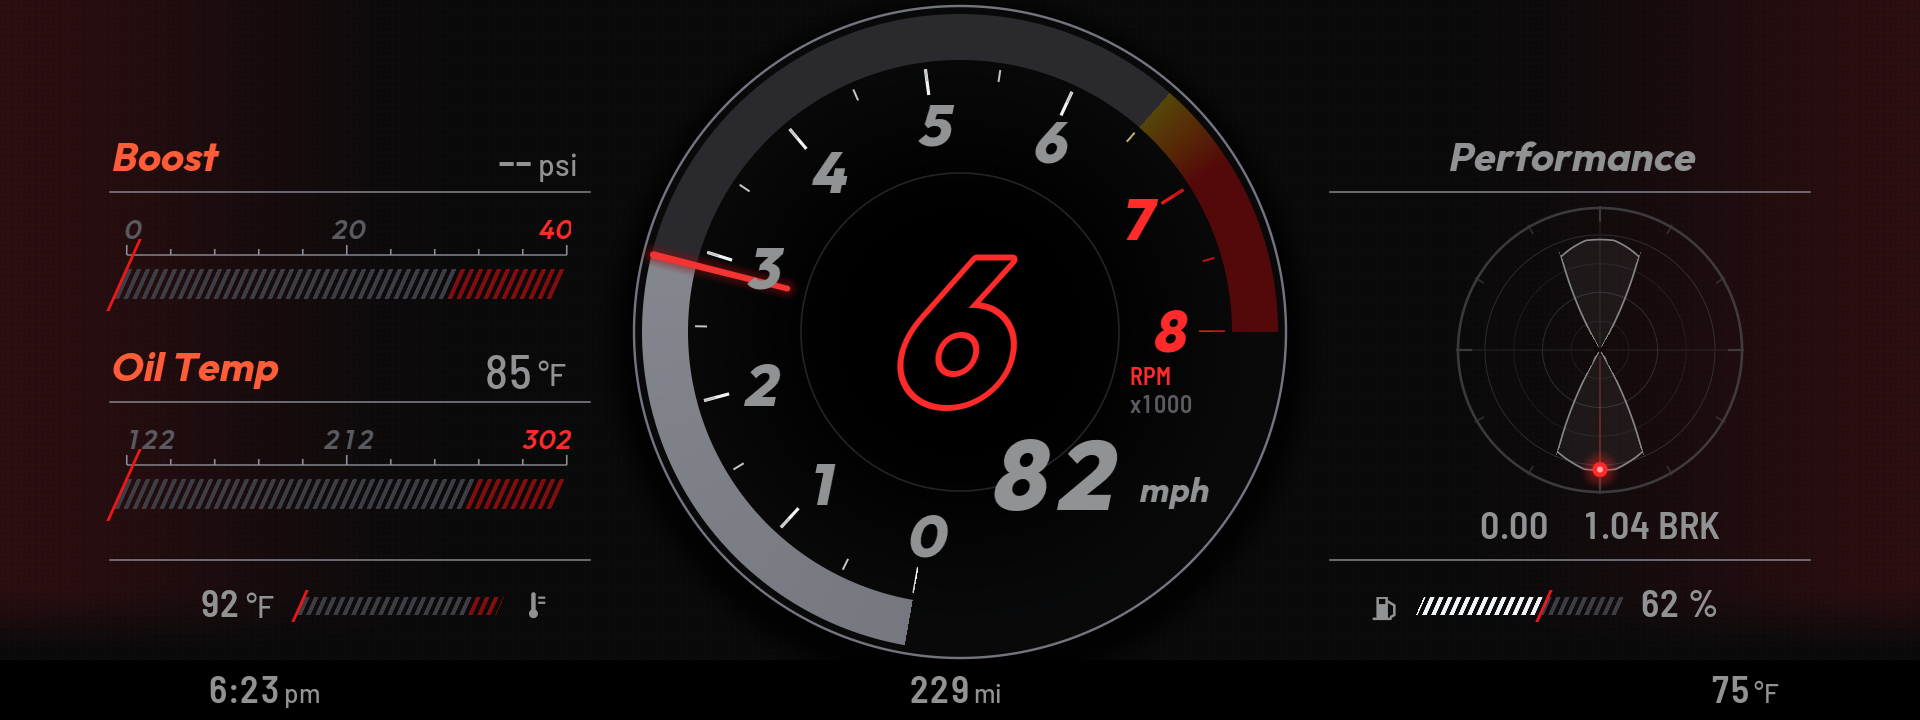
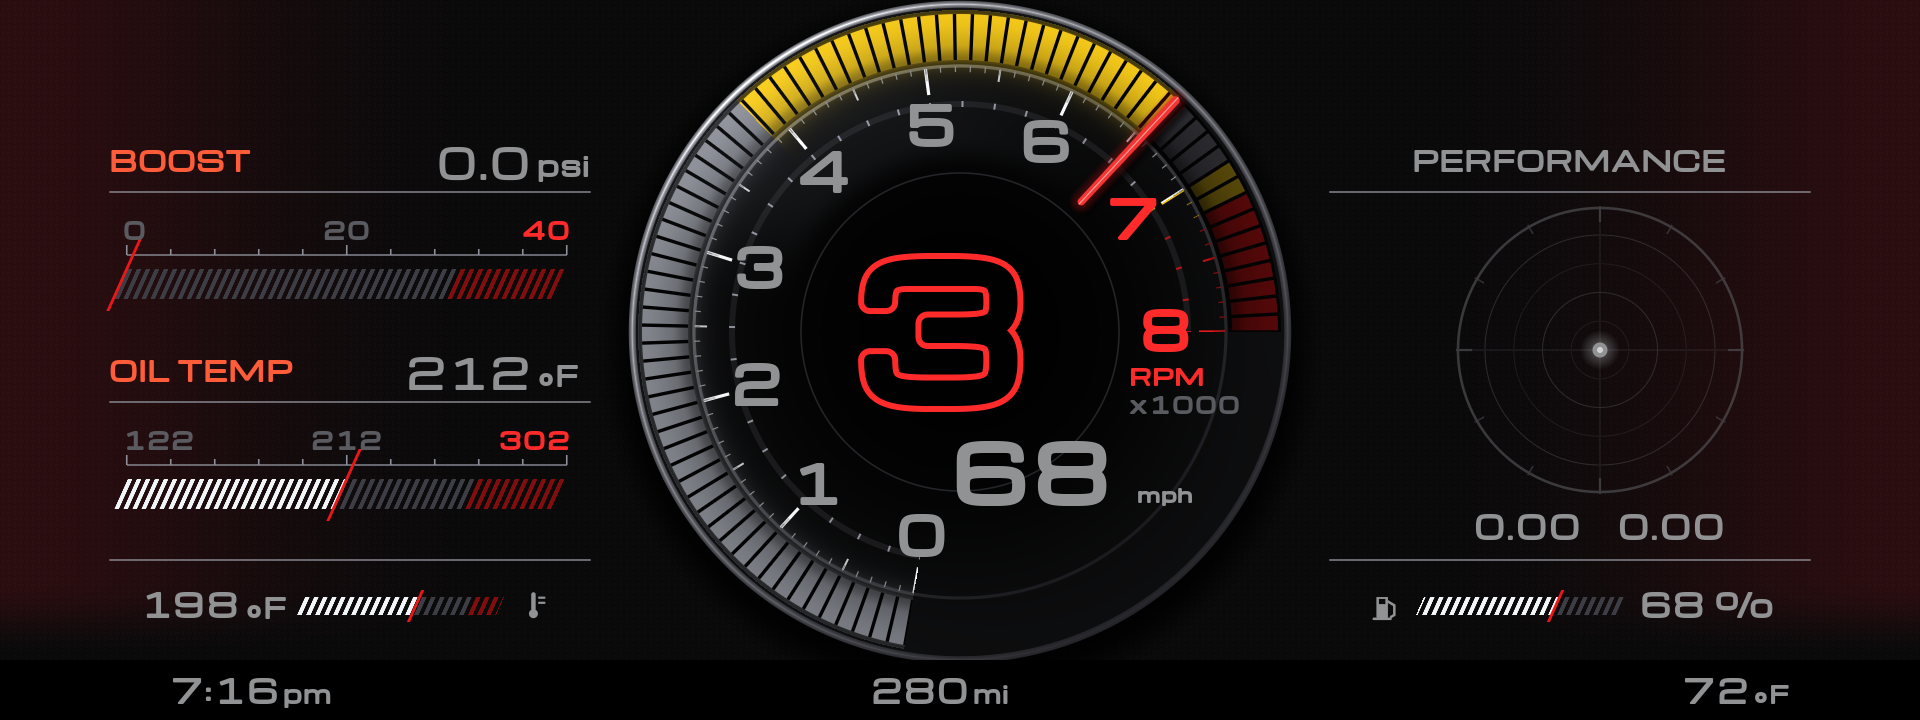
Apex: Sweep's type, lit segments in layered rings, warm-up red zone (0.21.0)
- Type (Apex): Wide (Sweep's Michroma, fonts sw_*, the default) or Italic.
  Layouts may carry "fontSets" (hud.js _fontSet), with a baseline shift.
- Tach finish (Apex): Lit segments in layered rings (default), Flat,
  Machined, Lit segments, Layered rings (cdash u_tachStyle, no rebuild).
- Red zone (Apex): Warm-up (default), Sweep's logic: red from 4000 rpm on
  cold oil rising to the Redline setting by 160 F, a yellow zone under it,
  the yellow wave over the last 1200 rpm, the lit band flashing red at
  5 Hz from the shift point. Fixed keeps 6500 / 7000.

Claude-Session: https://claude.ai/code/session_014K4Tyd9Jh77Ds9SVD6eFP6

diff --git a/shared/hud.js b/shared/hud.js
@@ -405,7 +405,7 @@ const CIRCUIT_COLORS = {
     blue: { band: [0.05, 0.33, 0.78], ink: [255, 255, 255, 255] },
 };
 const LOOK_KEYS = ['backdrops', 'apexBackdrop', 'aeroBackdrop', 'tachStyle'];   // only a dash's uniforms change (_dashLook): no rebuild
-const LIVE_KEYS = ['tachResponse', 'warnOil', 'warnCoolant', 'warnBoost', 'warnIntake', 'warnOilP', 'badge', 'badgeBMW', 'gFlipLat', 'gFlipLong', 'gRange', 'gTrail'];
+const LIVE_KEYS = ['tachResponse', 'apexZones', 'warnOil', 'warnCoolant', 'warnBoost', 'warnIntake', 'warnOilP', 'badge', 'badgeBMW', 'gFlipLat', 'gFlipLong', 'gRange', 'gTrail'];
 // g (after cauliflowermossgrape's G-Force, MIT, idea only): a sample over G_BAD is a bad reading, not a corner;
 // the rest are averaged over G_AVG_MS so kerbs and potholes don't throw the dot about
 const G_BAD = 3;
@@ -3711,11 +3711,31 @@ class HudApp {
                 const v = this._tyre('p', k);
                 return isNum(v) ? (Math.round(v * 14.5038) < low ? 2 : 1) : 0;
             }) : [0, 0, 0, 0];
-            const sh = this._shiftNow(now);
-            const key = [rv].concat(bv, ts, sh).join('|');
+            let sh = this._shiftNow(now);
+            // "Red zone (Apex)" on Warm-up (as Sweep's, layout "coldLimit" [cold oil °C, warm oil °C, cold red from rpm],
+            // "yellowLines", "waveBelow"): the red zone starts low on a cold engine and rises to the Redline setting as the
+            // oil warms, a yellow zone just under it; over the last "waveBelow" rpm before it the lit band turns yellow from
+            // the red zone back towards 0, and from the shift point the lit band flashes red about 5 times a second
+            const top = T[6] * 1000;
+            let zone = [(w.zones || [6500, 7000])[0] / top, (w.zones || [6500, 7000])[1] / top], wave = 1, dyn = 0;
+            if (this.setting('apexZones') !== 'fixed' && w.coldLimit) {
+                const redline = this.setting('redline'), oil = this._raw('oil'), C = w.coldLimit;
+                let limit = redline;
+                if (isNum(oil)) limit = Math.round((C[2] + (redline - C[2]) * Math.min(1, Math.max(0, (oil - C[0]) / (C[1] - C[0])))) / 50) * 50;
+                const yellow = (w.yellowLines || 2) * 100, waveAt = limit - (w.waveBelow || 1200), revs = rv * top;
+                zone = [(limit - yellow) / top, limit / top];
+                wave = revs <= waveAt ? 1 : Math.max(0, limit * (1 - (revs - waveAt) / (limit - waveAt)) / top);
+                wave = Math.round(wave * 400) / 400;
+                const shiftAt = limit - (isNum(this.setting('shiftBefore')) ? this.setting('shiftBefore') : 0);
+                sh = [0, this.setting('shiftLight') !== false && isNum(rpm) && rpm >= shiftAt && Math.floor(now / 100) % 2 === 0 ? 1 : 0];
+                dyn = 1;
+            }
+            const key = [rv].concat(bv, ts, sh, zone, wave).join('|');
             if (!force && key === x.last) return;
             x.last = key;
             x.c.uniform(x.ref, 'u_shift', sh);
+            x.c.uniform(x.ref, 'u_zone', zone);
+            x.c.uniform(x.ref, 'u_wave', [wave, dyn]);
             x.c.uniform(x.ref, 'u_tyre', ts);
             x.c.uniform(x.ref, 'u_tachA', [T[4], T[5], T[6], rv]);
             const bu = [];

diff --git a/shared/shaders.js b/shared/shaders.js
@@ -2599,6 +2599,8 @@ uniform vec2 u_mapEdge;    // x: how wide its edge fades into the dial, px inwar
 uniform vec4 u_glow;       // a soft glow fading outward from the gear's ring (0.5 of the radius): r, g, b, strength (0 = none)
 uniform float u_plain;     // 1: no backdrop (carbon, weave, side glow), plain black (the "Backgrounds" setting off)
 uniform vec2 u_shift;      // the shift light: x the count towards the shift point 0..1, y 1 while it flashes on (hud.js _shiftNow)
+uniform vec2 u_wave;       // the warm-up zones (y 1, "Red zone" on Warm-up, as Sweep's): lit band from x (0..1) up to the yellow zone
+                           // is yellow; the zones are then yellow then red, and the shift flash turns only the lit band red
 uniform float u_tachStyle; // the rev counter's finish ("tachStyle"): 0 flat, 1 machined (chrome bezel, bowl face, bevelled band, fine
                            // marks, needle shadow), 2 lit segments (the band in segments that glow, a glass sheen), 3 layered rings
                            // (the band sunk in a channel between chrome rings, a notched inner ring, fine marks), 4 lit segments in
@@ -2712,10 +2714,17 @@ void main() {
         bool inZone = f >= u_zone.x;
         vec3 off = inZone ? z * 0.35 : TRACK;
         vec3 lit = inZone ? z : mix(vec3(0.46, 0.47, 0.5), vec3(0.62, 0.63, 0.66), f);
-        vec3 bc = f <= u_tachA.w ? lit : off;
-        // the shift light: the band reddens over the count-in, then the whole band flashes bright red
+        bool dyn = u_wave.y > 0.5, isLit = f <= u_tachA.w;
+        if (dyn) {   // Sweep's: yellow zone then red, the lit band yellow from the wave up
+            bool hot = f >= u_zone.y;
+            off = hot ? RED * 0.35 : inZone ? AMBER * 0.35 : TRACK;
+            lit = hot ? RED : (f >= min(u_zone.x, u_wave.x)) ? AMBER : lit;
+        }
+        vec3 bc = isLit ? lit : off;
+        // the shift light: the band reddens over the count-in, then the whole band flashes bright red (warm-up zones: only
+        // the lit band flashes)
         bc = mix(bc, vec3(0.75, 0.08, 0.07), u_shift.x * 0.45 * step(u_shift.y, 0.5));
-        bc = mix(bc, vec3(1.0, 0.13, 0.1), u_shift.y);
+        bc = mix(bc, vec3(1.0, 0.13, 0.1), u_shift.y * (dyn && !isLit ? 0.0 : 1.0));
         if (fLay) c = put(c, vec3(0.012), cov(-min(r - (R - B - 4.0), R + 3.0 - r)) * on);   // the groove
         if (fSeg) {
             // lit segments: the band cut into blocks (ten per thousand), the lit ones glowing outward and inward
@@ -2743,7 +2752,7 @@ void main() {
         float per = u_tachA.y / u_tachA.z;
         float m1 = abs(radians(mod(rel + per * 0.5, per) - per * 0.5)) * r;
         float m2 = abs(radians(mod(rel + per * 0.25, per * 0.5) - per * 0.25)) * r;
-        vec3 mc = inZone ? zoneCol(f) : WHITE;
+        vec3 mc = inZone ? (u_wave.y > 0.5 ? (f >= u_zone.y ? RED : AMBER) : zoneCol(f)) : WHITE;
         c = put(c, mc, cov(m1 - 1.6) * cov(abs(r - (R - B - 20.0)) - 13.0) * on);
         c = put(c, mc * 0.8, cov(m2 - 1.0) * cov(abs(r - (R - B - 13.0)) - 6.0) * on);
         if (fFine) {   // fine marks every 100 rpm

diff --git a/apps/cluster_themes/main.js b/apps/cluster_themes/main.js
@@ -66,11 +66,11 @@ mgu.run({
             tabs: ['look', 'readouts', 'badge', 'map', 'alerts', 'gmeter', 'settings'],
             // the Settings tab lists these only while Apex is on the cluster (shared/page.js); not listed: every theme
             settingThemes: {
-                tempUnits: ['apex'], pressureUnits: ['apex'], shiftLight: ['apex'], backdrops: ['apex'], apexBackdrop: ['apex'], apexFont: ['apex'], tachStyle: ['apex'], tachResponse: ['apex'],
+                tempUnits: ['apex'], pressureUnits: ['apex'], shiftLight: ['apex'], backdrops: ['apex'], apexBackdrop: ['apex'], apexFont: ['apex'], tachStyle: ['apex'], apexZones: ['apex'], tachResponse: ['apex'],
                 gearStyle: ['apex'], gearSource: ['apex'], tachSpeed: ['apex'], readingsCheck: ['apex'], dialGlow: ['apex'], leftStyle: ['apex'],
                 leftTop: ['apex'], leftBottom: ['apex'], gaugeFill: ['apex'], rightPanel: ['apex'],
             },
-            settings: ['units', 'tempUnits', 'pressureUnits', 'clock', 'timeZone', 'tankLitres', 'redline', 'shiftBefore', 'coldGuard', 'showBoost', 'gearGap', 'sweepColor', 'revScale', 'sweepCenter', 'intakeBar', 'showEthanol', 'shiftFlash', 'shiftLight', 'nightDim', 'backdrops', 'apexBackdrop', 'apexFont', 'tachStyle', 'tachResponse', 'gearStyle', 'gearSource', 'tachSpeed', 'readingsCheck', 'dialGlow', 'leftStyle', 'leftTop', 'leftBottom', 'gaugeFill', 'rightPanel', 'cameraNotch', 'holiday', 'demo'],
+            settings: ['units', 'tempUnits', 'pressureUnits', 'clock', 'timeZone', 'tankLitres', 'redline', 'shiftBefore', 'coldGuard', 'showBoost', 'gearGap', 'sweepColor', 'revScale', 'sweepCenter', 'intakeBar', 'showEthanol', 'shiftFlash', 'shiftLight', 'nightDim', 'backdrops', 'apexBackdrop', 'apexFont', 'tachStyle', 'apexZones', 'tachResponse', 'gearStyle', 'gearSource', 'tachSpeed', 'readingsCheck', 'dialGlow', 'leftStyle', 'leftTop', 'leftBottom', 'gaugeFill', 'rightPanel', 'cameraNotch', 'holiday', 'demo'],
             // the drive mode check's candidates this app's app.json listens to (issue #8; shared/hud.js modeDiagLines)
             modeCheck: ['HMI', 'MDrive', 'Engine', 'Sport2'],
         }).start();

diff --git a/tools/gen_apex.py b/tools/gen_apex.py
@@ -32,7 +32,9 @@ OWN_IDS = ('gear', 'gear_s', 'gear_m', 'gear_ms', 'speed', 'speed_m', 'gear_c', 
                                                         # small picture's changed rect, not a rect of a big shared sheet
 MAP_FEATHER = 80              # the window's edge fades into the dial over this many px (inward), under the numbers
 MAP_R = 262                   # the map window's radius, to the tick marks (Waze draws its map in this square: hud.js _mapHost)
-ZONES = [6500, 7000]          # amber from 6500 rpm, red from 7000
+ZONES = [6500, 7000]          # amber from 6500 rpm, red from 7000 ("Red zone (Apex)" on Fixed)
+# "Red zone (Apex)" on Warm-up, as Sweep's: red from 4000 rpm below 120°F oil, rising to the Redline setting by 160°F
+COLD_LIMIT = [48.89, 71.11, 4000]
 # "Leave room for the driver camera" (cameraNotch; visible.CAMERA 760..1160 x 0..110): the tach smaller and lower, clear
 # of the camera at the top and above the bottom strip; everything in it moves with it (a second set, toggled)
 CAM = 'cameraNotch'
@@ -256,6 +258,7 @@ def build():
         mr = int(round(MAP_R * sc))
         widgets.append({'id': 'dash_c' if cam else 'dash', 'type': 'cdash', 'class': 'content', 'z': 1, 'x': 0, 'y': 0, 'w': W, 'h': H,
                         'tach': [cx, cy, r, int(round(BAND * sc)), START, SWEEP, THOUSANDS], 'zones': ZONES,
+                        'coldLimit': COLD_LIMIT, 'yellowLines': 2, 'waveBelow': 1200,
                         'panels': [640, 1280, 120, 660], 'bars': bars, 'lines': lines, 'glow': GLOW, 'car': CAR,
                         # the Waze map (Map tab): a round window in the dial, hosted there (hud.js _mapHost)
                         'hole': [cx - mr, cy - mr, 2 * mr, 2 * mr], 'holeWhen': 'mapUp', 'holeInset': 0,

diff --git a/apps/cluster_themes/README.md b/apps/cluster_themes/README.md
@@ -65,7 +65,9 @@ Calm and premium. One ribbon of light runs along under the top edge of the clust
 
 A needle dash in a mid-engine supercar style, imported from jsbaughman/apps (Cluster Themes 0.25.8).
 
-- **Middle:** a round rev counter, 0 to 8, its band lit white up to the revs over amber (from 6500 rpm) and red (from 7000 rpm) zones, with a red needle. The gear sits in the middle (outlined or solid, **Gear (Apex)**), the speed in the open lower right quarter (**Speed in the tach (Apex)**). With **Shift light (Apex)** on, the tach flashes red at the shift point.
+- **Middle:** a round rev counter, 0 to 8, with a red needle. **Tach finish (Apex):** Lit segments in layered rings (the default: the band in glowing blocks sunk in a groove between chrome rings, a notched inner ring, fine marks every 100 rpm, a needle shadow and a glass sheen), Flat, Machined, Lit segments or Layered rings.
+- **Red zone (Apex):** Warm-up (the default), as Sweep's: below 120°F oil the red zone starts at 4000 rpm and rises to your Redline setting by 160°F, with a yellow zone in the 200 rpm under it. Over the last 1200 rpm before the red zone the lit band turns yellow from the red zone back toward 0, and from your shift point the lit band flashes red about 5 times a second (**Shift light (Apex)** off stops the flash). Fixed keeps amber from 6500 and red from 7000.
+- **Type (Apex):** Wide, Sweep's Michroma (the default), or Italic, Apex's own. The gear sits in the middle (outlined or solid, **Gear (Apex)**), the speed in the open lower right quarter (**Speed in the tach (Apex)**). With **Shift light (Apex)** on, the tach flashes red at the shift point.
 - **Left:** two readouts, boost and oil temperature by default (**Left gauge, top / bottom (Apex)**: boost, oil temp, intake temp, oil pressure or water temp), as hatched gauges with a scale or as thin bars (**Left side (Apex)**, **Gauge fill (Apex)**). Oil pressure is read from the engine unit and is not yet checked on an S58.
 - **Right:** a G-meter, the tire pressures and temperatures round a car seen from above, or horsepower and torque (**Right side (Apex)**).
 - **Bottom:** coolant and fuel, then the theme's own clock, range and outside temperature in the strip. BMW's gear and drive programme area (x 1214 to 1525) is left uncovered, as in every theme here.

diff --git a/CHANGELOG.md b/CHANGELOG.md
@@ -4,6 +4,7 @@ Newest first. Dates are when the build was pushed.
 
 ## Nov 24 2026
 
+- **P3 Clusters 0.21.0 (Apex):** three new Apex settings. **Type:** Wide, Sweep's Michroma (the new default), or Italic, Apex's own. **Tach finish:** Lit segments in layered rings (the new default: glowing blocks sunk in a groove between chrome rings, a notched inner ring, fine marks every 100 rpm, a needle shadow and a glass sheen), or Flat, Machined, Lit segments, Layered rings. **Red zone:** Warm-up (the new default, as Sweep's: red from 4000 rpm below 120°F oil, rising to your Redline by 160°F, a yellow zone just under it, the lit band turning yellow from the red zone back over the last 1200 rpm, and the lit band flashing red about 5 times a second from the shift point; Shift light switches the flash off), or Fixed (amber 6500, red 7000, as before). Not yet tested on a car.
 - **P3 Clusters 0.20.1:** the E36 always redlines at 7200 rpm (the M3 face, red from 7200), whatever the Redline setting says; its shift point follows. Other themes still use the Redline setting. A layout can now carry its own "redline".
 - **P3 Clusters 0.20.0 / HUD Widgets 0.14.11:** new **Apex** theme, imported from jsbaughman/apps (Cluster Themes 0.25.8): a needle rev counter with the gear in the middle, boost and oil temperature gauges on the left (or intake, oil pressure, water), a G-meter, tire panel or power and torque on the right, coolant and fuel along the bottom. Its strip covers leave BMW's gear and drive programme area (x 1214 to 1525) uncovered like the other themes. Brings the engine pieces it needs (the cdash layer, layout picks, separate temperature and pressure units, oil pressure from the engine unit, the per-theme Settings list, the text cache); the other themes are unchanged. HUD Widgets bundles car_top.js (the shared engine needs it). Not yet tested on a car.
 
